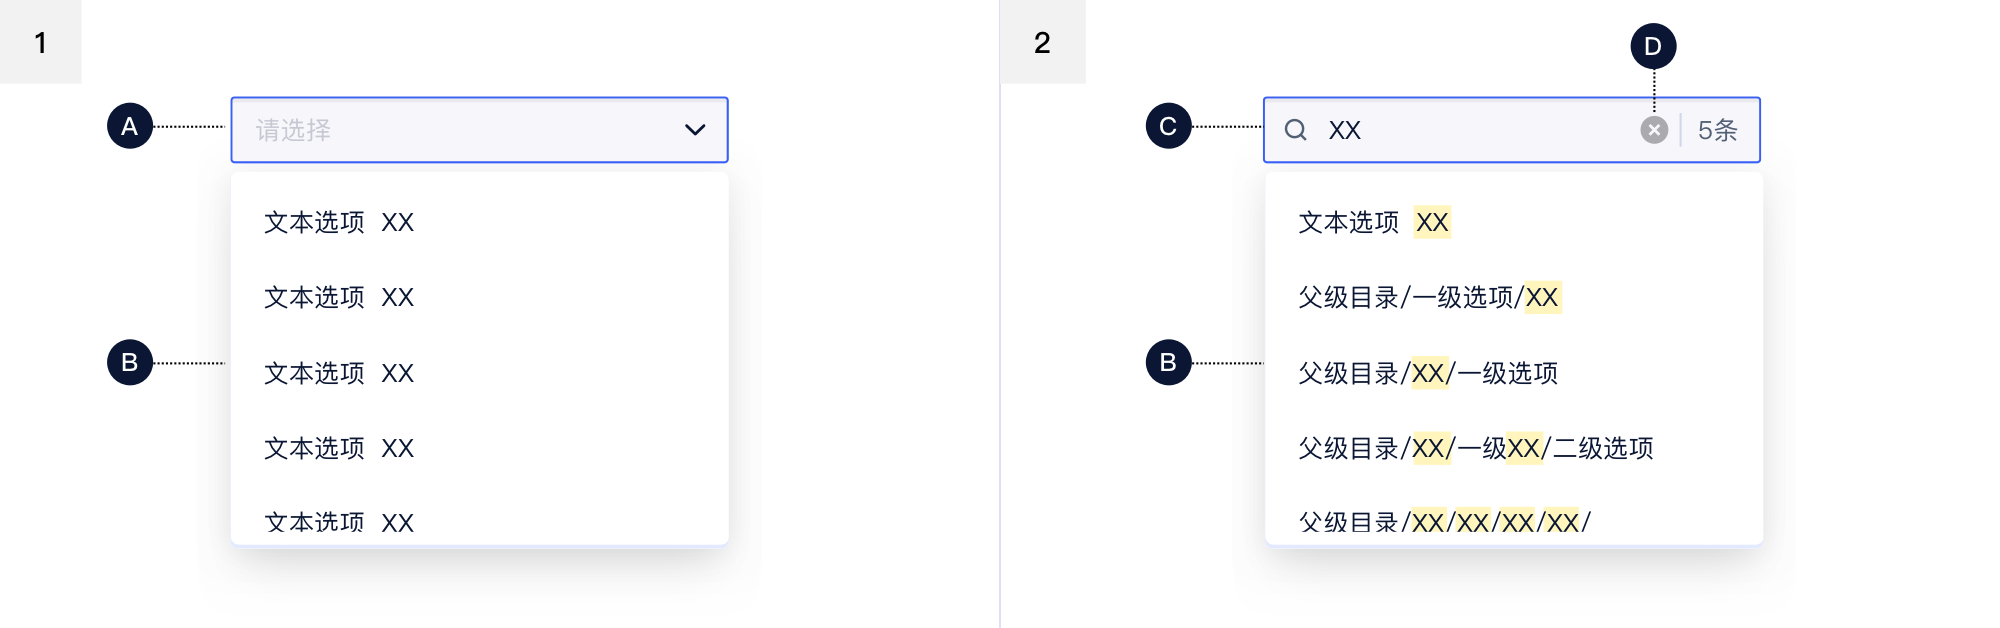
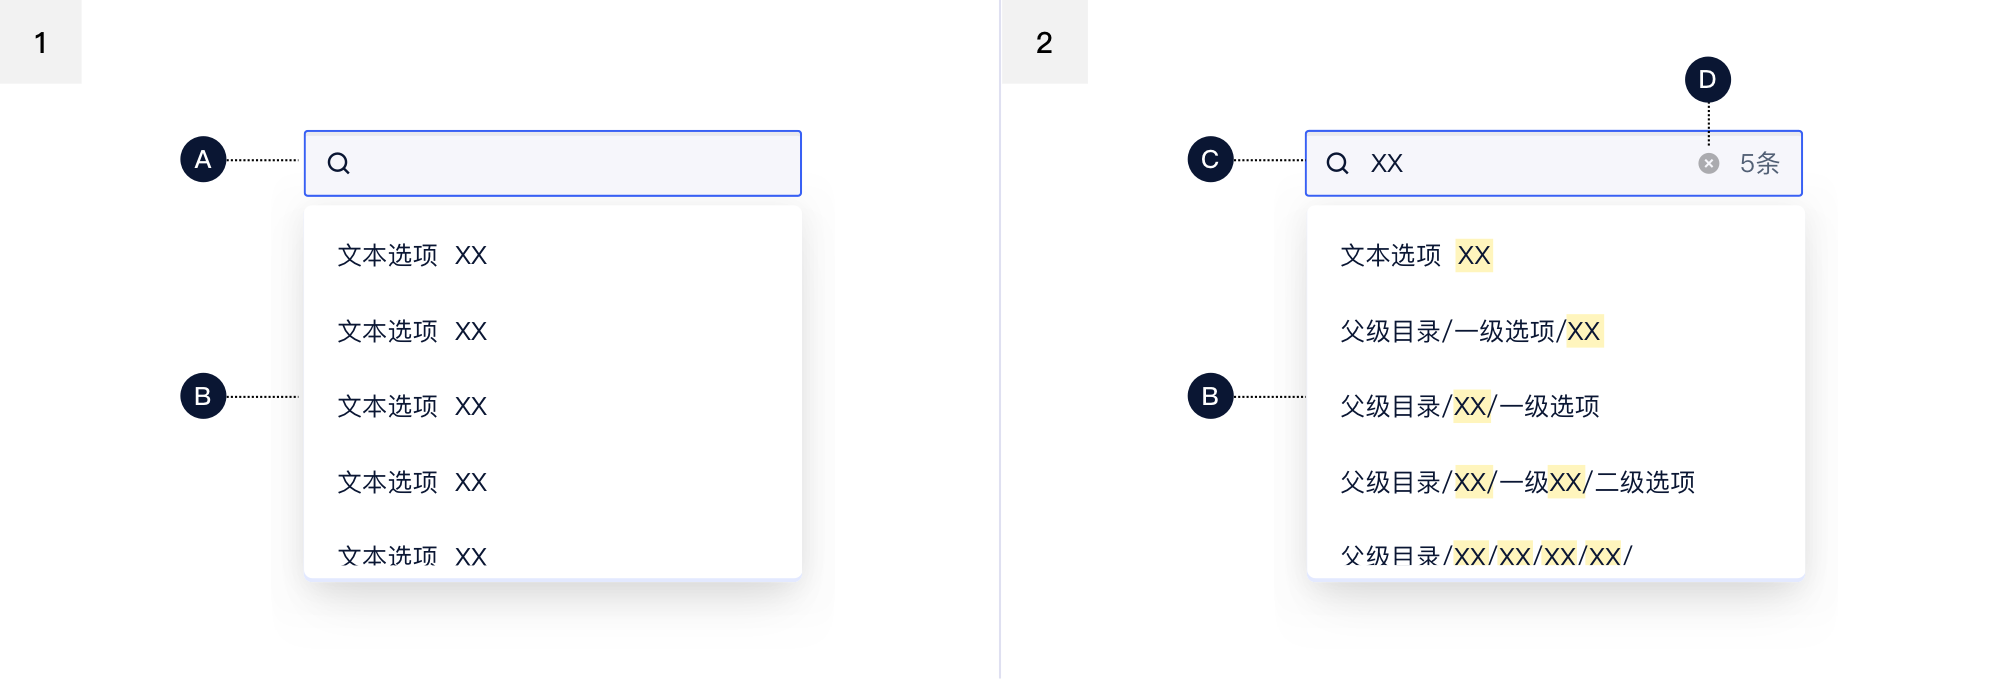
Cascader

diff --git a/content/component/list/Cascader/index.md b/content/component/list/Cascader/index.md
@@ -50,65 +50,45 @@
 
 #### 
 
-
-
-![状态集合](../../../images/状态集合-1762802.png)
-
-### 
-
-
-
-
-
 ## 基本状态
 
-| 状态       | 说明                                                         |
-| :--------- | :----------------------------------------------------------- |
-| 默认状态   | 组件初始状态                                                 |
-| 悬停状态   | 选择器：鼠标经过选择器时，切换至该状态；菜单：鼠标hover父级选项时，自动展开下一级菜单，下拉框高度对齐 |
-| 点选状态   | 点选选项，下拉框全部收起，选择器中出现选中内容（包括父级关系），若内容超出组件宽度，以“...”形式展示，鼠标hover显示完整内容；选中选项后再次触发选择器，自动展开到选中项一级，同时选中项及其父级菜单全部做视觉区分处理 |
-| 加载状态   | 下拉框数据加载较慢时需给出loading提示，以缓解用户的焦虑感    |
-| 报错       | 当数据由于网络问题、接口问题等情况无法正常加载时，给予用户明确提示 |
-| 禁用状态   | 当前行动点不可用，建议配合提示说明                           |
-| 空数据状态 | 当数据为空时，需给出明确提示告诉用户当前没有可选的数据。     |
+| 状态   | 说明                                                         |
+| :----- | :----------------------------------------------------------- |
+| 默认   | 组件初始状态                                                 |
+| 悬停   | 选择器：鼠标经过选择器时，切换至该状态；菜单：鼠标hover父级选项时，自动展开下一级菜单，下拉框高度对齐；当内容超出组件宽度，以“...”形式展示，鼠标hover显示完整内容 |
+| 点选   | 点选选项，下拉框全部收起，选择器中出现选中内容（包括父级关系）；选中选项后再次触发选择器，自动展开到选中项一级，同时选中项及其父级菜单全部做视觉区分处理 |
+| 加载   | 下拉框数据加载较慢时需给出loading提示，以缓解用户的焦虑感    |
+| 报错   | 当数据由于网络问题、接口问题等情况无法正常加载时，给予用户明确提示 |
+| 禁用   | 当前行动点不可用，建议配合提示说明                           |
+| 空数据 | 当数据为空时，需给出明确提示告诉用户当前没有可选的数据。     |
 
-默认状态
+#### 默认状态
 
-悬停状态
+![](../../../images/Cascader/states_01.png)
 
-点选状态
+#### 激活状态
 
-加载状态
+![](../../../images/Cascader/states_02.png)
 
-报错
+#### 悬停状态
 
-禁用状态
+![](../../../images/Cascader/states_03.png)
 
+#### 加载状态
 
+![](../../../images/Cascader/states_04.png)
 
+#### 报错
 
+![](../../../images/Cascader/states_05.png)
 
-## 其它样式
+#### 禁用状态
 
-#### 1.带搜索功能
+![](../../../images/Cascader/states_06.png)
 
-部分场景需要级联选择器支持搜索功能，则在点击激活选择器时附带输入框功能，见下图：
+#### 空数据状态
 
-![001](../../../images/001.png)
-
-若用户在激活选择器后，输入内容进行搜索，则收起下拉框，显示带有关键词路径的选项卡，关键词高亮显示，见下图：
-
-![002](../../../images/002.png)
-
-点击选项后选项卡收起，选择器显示选择内容。
-
-
-
-#### 2.带清除按钮
-
-选择器有选项时，鼠标hover，选择器右侧下拉icon变为清楚icon，点击清除选中项，见下图：
-
-![003](../../../images/003.png)
+![](../../../images/Cascader/states_07.png)
 
 
 
@@ -141,12 +121,12 @@
 
 <div class="u-md-flex-without-bg">
    <div class="u-md-mr24">
-      <p><i class="u-md-suggested"></i>无选中项时，鼠标hover选择器，不出现清除icon。</p>
-      <img src="../../../images/级联选择器/004.png" alt="image alt" title="desc" />
+      <p><i class="u-md-suggested"></i>有选中项时，鼠标hover选择器，出现清除icon。</p>
+      <img src="../../../images/Cascader/problems_01.png"/>
    </div>
    <div>
       <p><i class="u-md-not-suggested"></i>无选中项时，鼠标hover选择器，出现清除icon。</p>
-      <img src="../../../images/级联选择器/005.png" alt="image alt" title="desc" />
+      <img src="../../../images/Cascader/problems_02.png"  />
    </div>
 </div>
 
